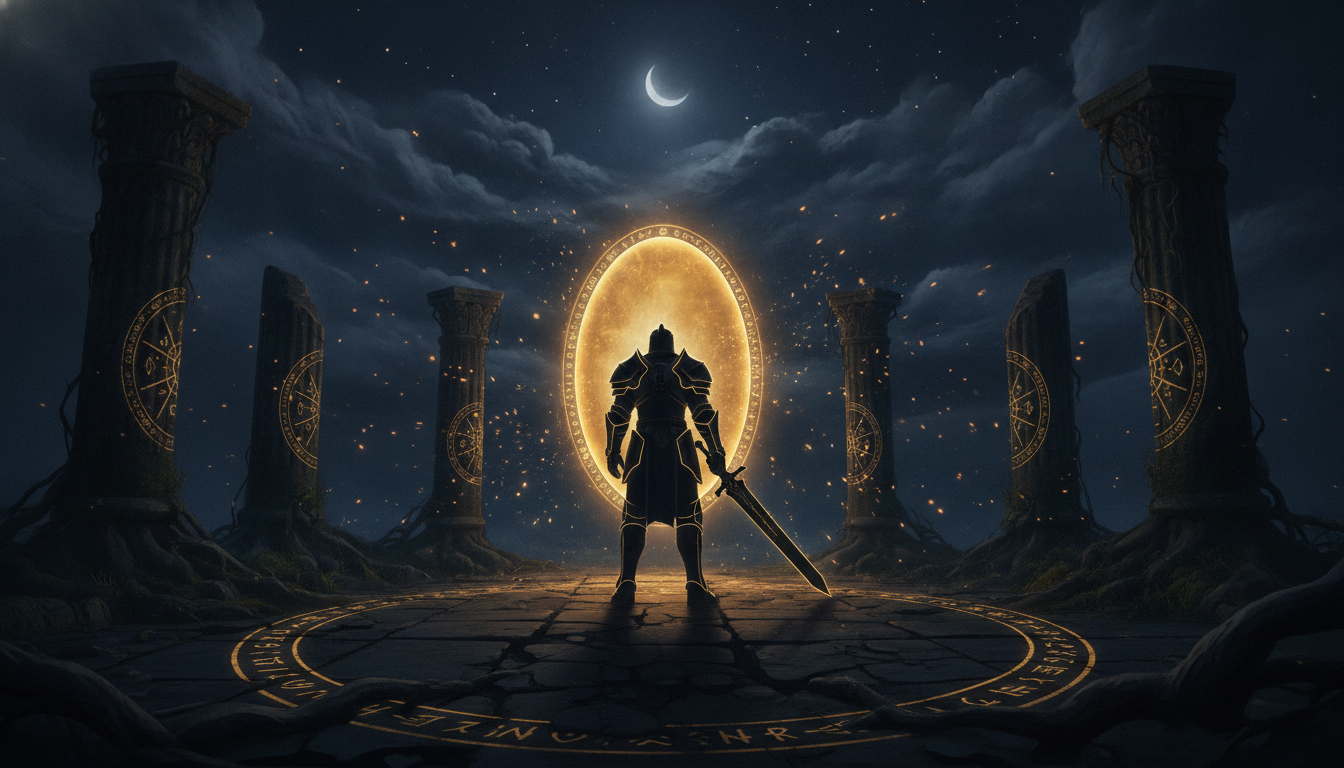
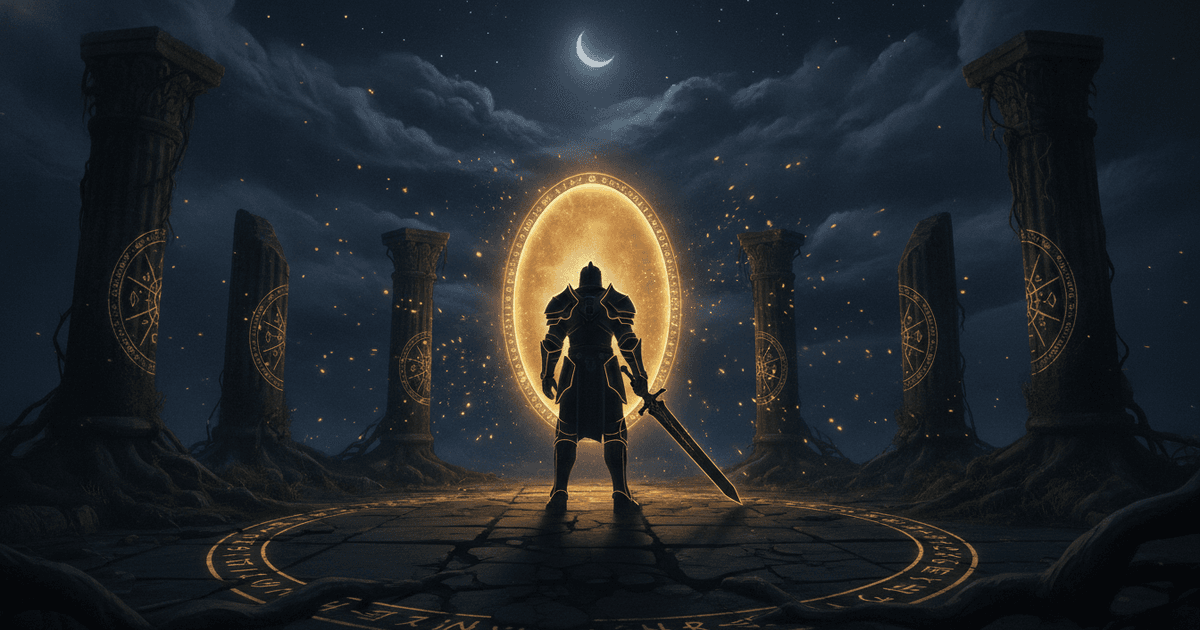
Audit repo : alt sur images avant/après, robots.txt, badges README, OG compressée, doc backups
- alt="" descriptif sur #patchImgBefore/#patchImgAfter (accessibilité)
- robots.txt minimal (autorise tout, exclut donation/ et docs/)
- Badges CI + licence en haut du README
- assets/og-preview.png recompressé et redimensionné (1,6 Mo → 254 Ko, 1200×630 recommandé)
- docs/supabase-backups.md : état réel des sauvegardes (plan Pro, backups quotidiens 7j,
  procédure de restauration)

Points restants de l'audit nécessitant une décision/un accès externe (JSDoc en cours,
archivage silver_ledger, webhook Discord sur le bot Render) signalés séparément à l'utilisateur.

diff --git a/index.dev.html b/index.dev.html
@@ -244,8 +244,8 @@
       <button id="closePatchImg">✕</button>
     </div>
     <div id="patchImgBody">
-      <div class="patchImgCol"><div class="patchImgLbl" id="patchImgLblBefore">Avant</div><img id="patchImgBefore"></div>
-      <div class="patchImgCol"><div class="patchImgLbl" id="patchImgLblAfter">Après</div><img id="patchImgAfter"></div>
+      <div class="patchImgCol"><div class="patchImgLbl" id="patchImgLblBefore">Avant</div><img id="patchImgBefore" alt="Capture d'écran avant le changement décrit dans la note de version"></div>
+      <div class="patchImgCol"><div class="patchImgLbl" id="patchImgLblAfter">Après</div><img id="patchImgAfter" alt="Capture d'écran après le changement décrit dans la note de version"></div>
     </div>
   </div>
 </div>

diff --git a/index.html b/index.html
@@ -244,8 +244,8 @@
       <button id="closePatchImg">✕</button>
     </div>
     <div id="patchImgBody">
-      <div class="patchImgCol"><div class="patchImgLbl" id="patchImgLblBefore">Avant</div><img id="patchImgBefore"></div>
-      <div class="patchImgCol"><div class="patchImgLbl" id="patchImgLblAfter">Après</div><img id="patchImgAfter"></div>
+      <div class="patchImgCol"><div class="patchImgLbl" id="patchImgLblBefore">Avant</div><img id="patchImgBefore" alt="Capture d'écran avant le changement décrit dans la note de version"></div>
+      <div class="patchImgCol"><div class="patchImgLbl" id="patchImgLblAfter">Après</div><img id="patchImgAfter" alt="Capture d'écran après le changement décrit dans la note de version"></div>
     </div>
   </div>
 </div>

diff --git a/docs/supabase-backups.md b/docs/supabase-backups.md
@@ -1,0 +1,35 @@
+# Sauvegardes Supabase
+
+Vérifié le 2026-07-21 (audit repo, point 6) via l'organisation Supabase (`get_organization`).
+
+## État actuel
+
+- Projet : `mkwwvzbjtyawpcyrnybk` ("Black Desert Idle"), région `eu-west-1`.
+- Organisation sur le plan **Pro** — inclut des sauvegardes automatiques quotidiennes avec
+  7 jours de rétention (backups physiques, pas de configuration manuelle nécessaire).
+- **Point-in-Time Recovery (PITR)** n'est PAS inclus par défaut sur le plan Pro — c'est un
+  add-on payant séparé (facturé au Go/jour de rétention). Non activé aujourd'hui : pas vérifié
+  ici s'il vaut le coût pour ce projet, à décider séparément si le besoin se présente (ex:
+  restaurer à une minute précise plutôt qu'au dernier backup quotidien).
+
+## Restaurer depuis un backup quotidien
+
+1. Dashboard Supabase → projet → **Database → Backups**.
+2. Choisir un backup quotidien dans la liste (jusqu'à 7 jours en arrière).
+3. Lancer la restauration — Supabase gère le rollback complet de la base à cet instant.
+4. ⚠️ Une restauration remplace TOUTE la base au moment du backup choisi — perd les écritures
+   plus récentes que ce backup. Pas de restauration partielle table par table depuis l'UI.
+
+## Si un export manuel devient nécessaire
+
+Pas de `pg_dump` périodique scripté aujourd'hui (pas jugé nécessaire tant que les backups
+quotidiens Pro suffisent). Si un jour un export indépendant de Supabase est voulu (ex: copie
+froide hors plateforme), possibilité : `pg_dump` via CI (GitHub Actions), stocké ailleurs
+(S3/backup externe) — pas mis en place, à faire au moment du besoin réel plutôt que
+préventivement.
+
+## À revoir si
+
+- Le volume de données augmente au point où la restauration complète devient trop lente/coûteuse.
+- Un incident réel de perte de données montre que 7 jours de rétention ou une granularité
+  journalière (pas de PITR) sont insuffisants — réévaluer l'add-on PITR à ce moment-là.

diff --git a/README.md b/README.md
@@ -1,5 +1,8 @@
 # ⚔️ Black Desert Idle
 
+[![CI](https://github.com/Maxyull/black-desert-idle/actions/workflows/ci.yml/badge.svg)](https://github.com/Maxyull/black-desert-idle/actions/workflows/ci.yml)
+[![License: MIT](https://img.shields.io/badge/License-MIT-yellow.svg)](LICENSE)
+
 Un jeu idle/incrémental dans le navigateur, inspiré de **Black Desert Online** — combat automatique,
 progression par zones, enchantement d'équipement, et une vraie couche multijoueur (comptes, sauvegarde
 cloud, marché, chat, classement, boss mondial).